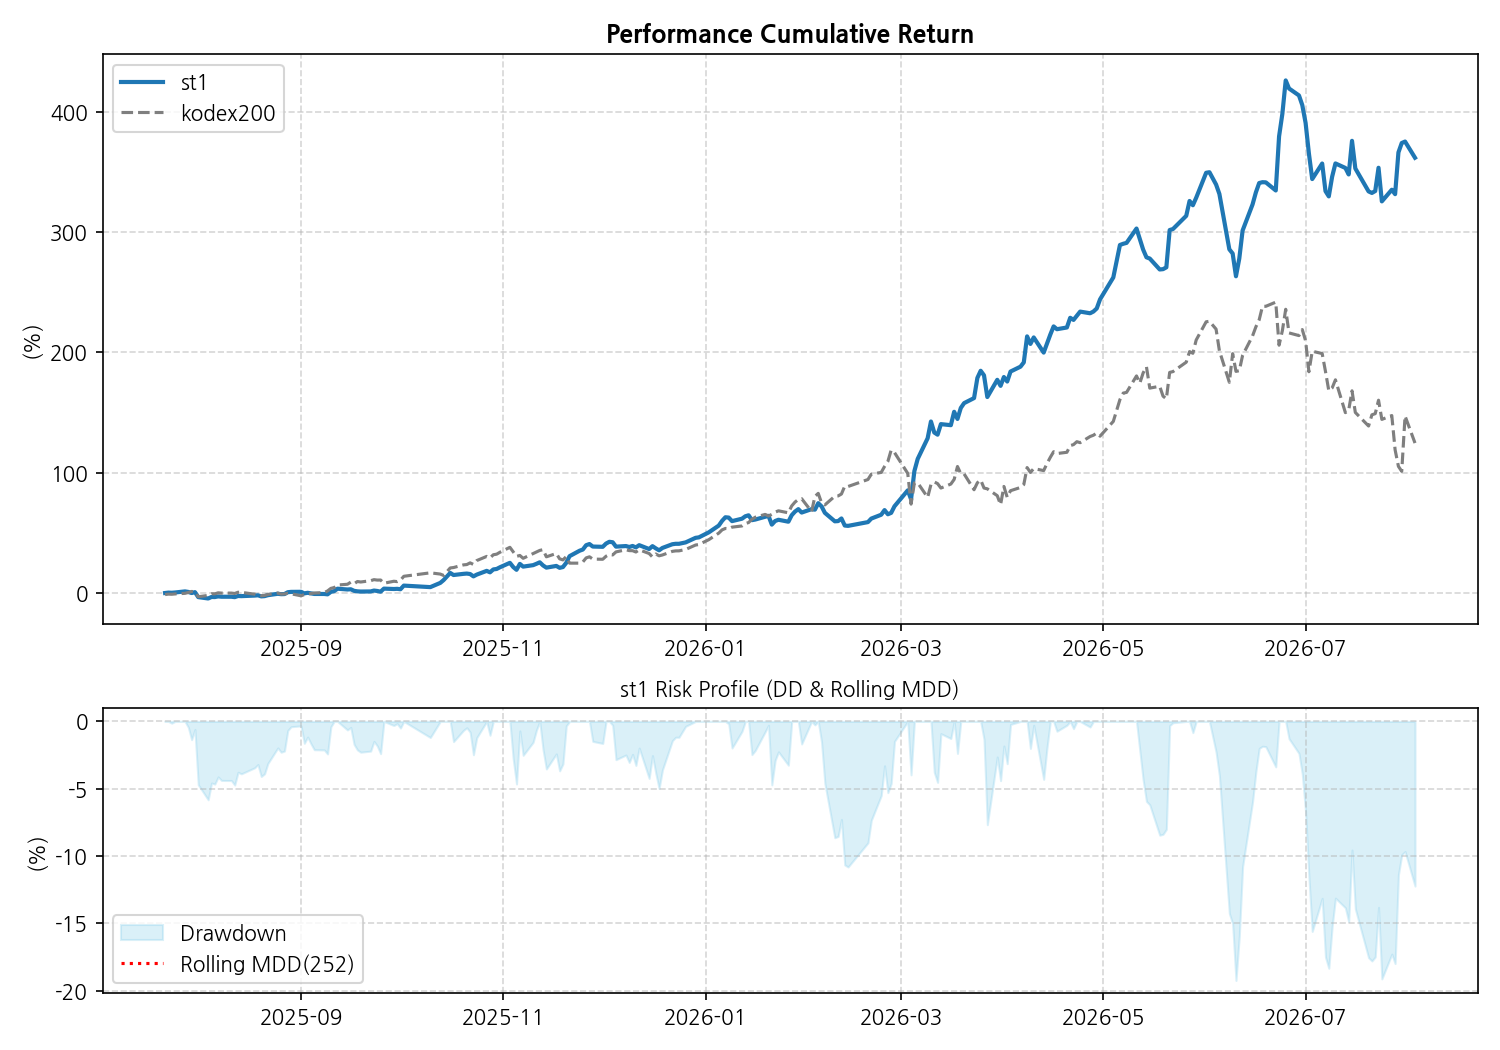
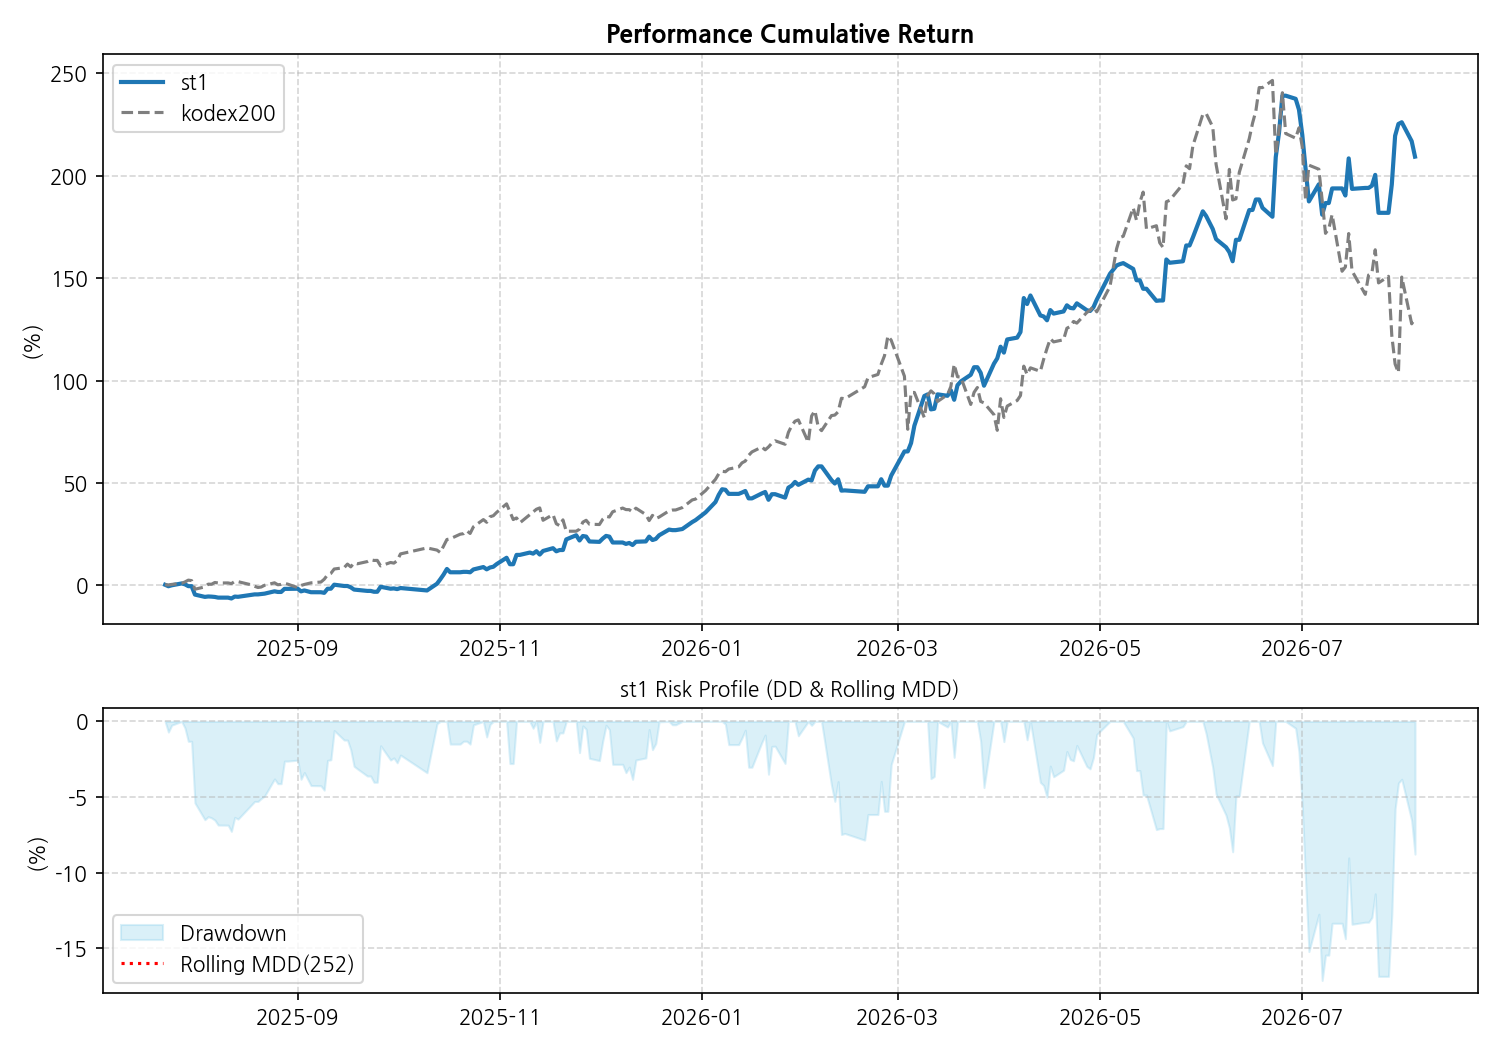
Auto commit

diff --git a/_pages/bt/bt_kodex.md b/_pages/bt/bt_kodex.md
@@ -2,7 +2,7 @@
 layout: post
 title: "BT, 오늘의 시그널(ETF)"
 author: Best Investor
-date: 2026-08-03
+date: 2026-08-04
 category: BT
 mermaid: true
 parent: 포트폴리오
@@ -14,14 +14,14 @@ parent: 포트폴리오
 
 | 지표 | 전략 1 (S1) | 전략 2 (S2) | 차이 (Diff) |
 | :--- | :---: | :---: | :---: |
-| **오늘 수익률** | -2.83% | -9.1% | 6.27% |
-| **30일 수익률** | 4.64% | -33.61% | 38.25% |
-| **1년 수익률** | 361.73% | 124.56% | 237.17% |
-| **전체 수익률** | 1430.67% | 232.53% | 1198.14% |
-| **MDD (1Y)** | -19.23% | -41.15% | 21.92%p |
-| **MDD (ALL)** | **-19.23%** | **-41.15%** | 21.92%p |
-| **샤프 (1Y)** | 3.65 | 1.7 | 1.95 |
-| **샤프 (ALL)** | **2.74** | **1.08** | 1.66 |
+| **오늘 수익률** | -2.38% | 1.24% | -3.62% |
+| **30일 수익률** | 10.48% | -33.46% | 43.94% |
+| **1년 수익률** | 209.24% | 130.51% | 78.73% |
+| **전체 수익률** | 783.71% | 242.35% | 541.36% |
+| **MDD (1Y)** | -17.13% | -41.15% | 24.02%p |
+| **MDD (ALL)** | **-17.13%** | **-41.15%** | 24.02%p |
+| **샤프 (1Y)** | 3.26 | 1.74 | 1.52 |
+| **샤프 (ALL)** | **2.54** | **1.1** | 1.44 |
 
 ## 📉 누적 성과 및 리스크 차트
 1. **최근 30일:** ![30일](/img_st/st_kodex_cum_risk_30d.png)

diff --git a/_posts/signal/2026-04-01-signal.md b/_posts/signal/2026-04-01-signal.md
@@ -7,6 +7,18 @@ category: Jekyll
 ---
 ## 시그널  
 
+### 📊 2026-08-05 Morning Trading Signal
+
+- 📅 날짜: 2026-08-05  
+- ⏰ 시간: 08:45  
+- 🧾 종목: **-**  
+- ⏸ 포지션: **No Trade**
+
+##### 🧭 Execution Plan
+- 🚀 진입: No Action
+- 🎯 청산: No Action
+
+
 ### 📊 2026-08-04 Afternoon Trading Signal
 
 - 📅 날짜: 2026-08-04  
